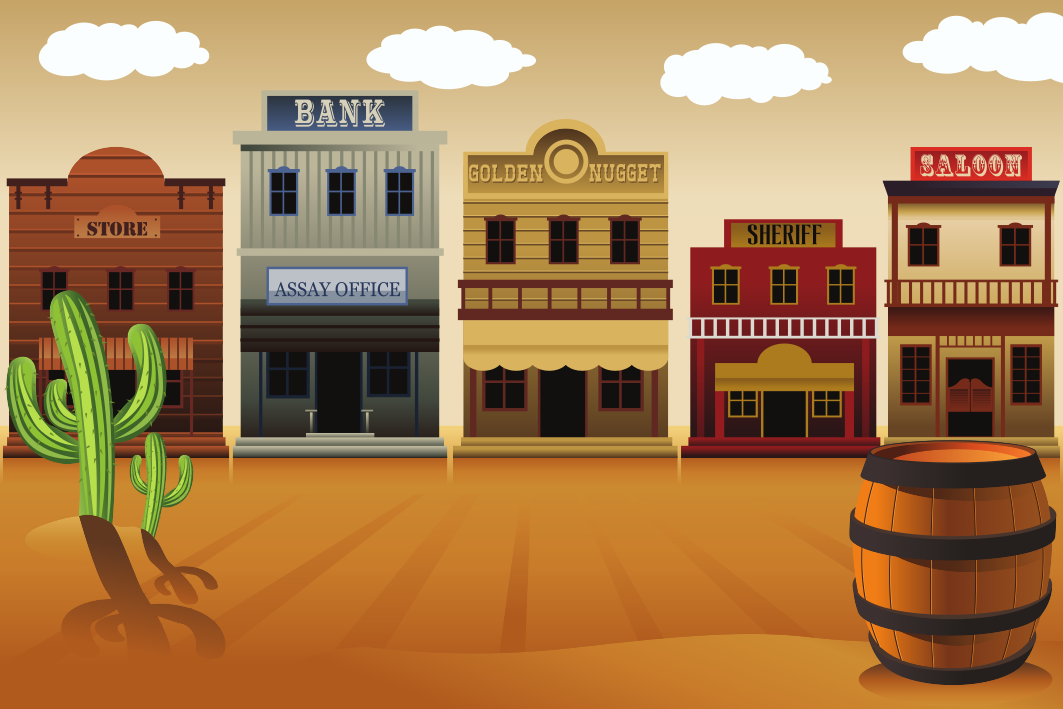
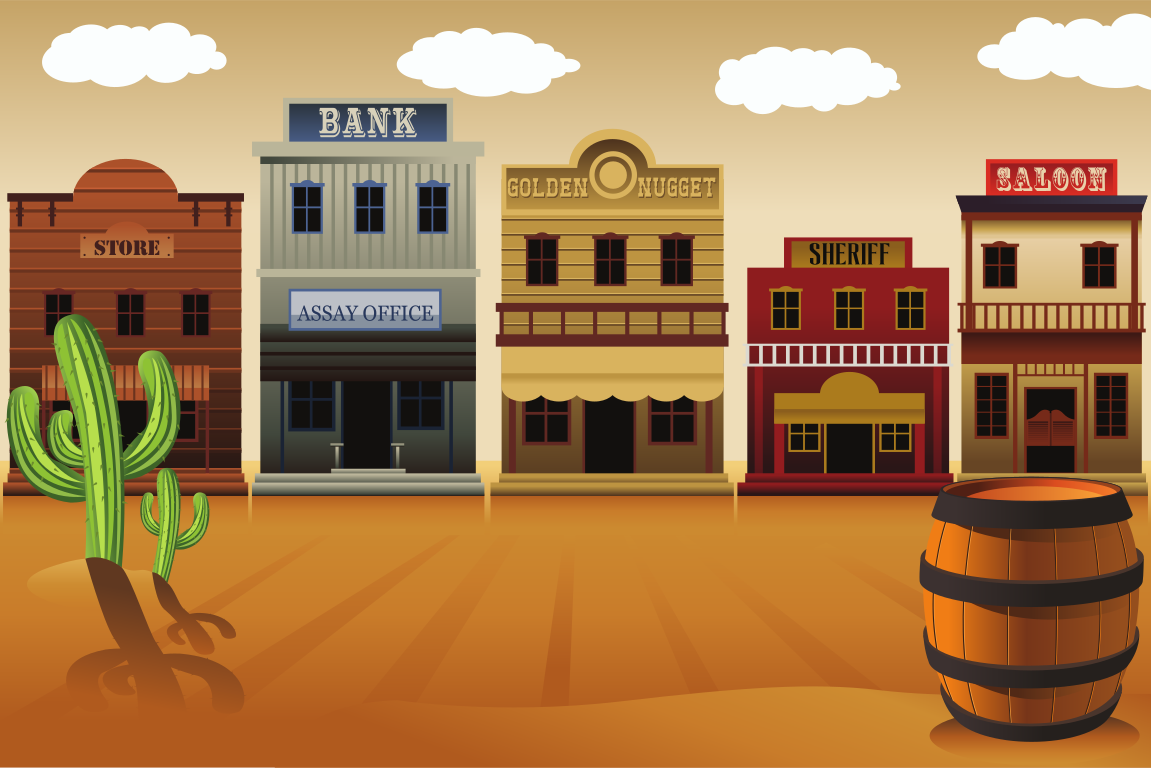
Updated playfield and README

diff --git a/index.html b/index.html
@@ -48,7 +48,7 @@
 <header><center><img src="/assets/openshiftlogo.png" alt="OpenShift" align="center"></center> </header>
 <div id="main">
     <article>
-        <div id="openshiftgame"></div>
+        <div id="openshiftgame"></div>v
 
     <script type="text/javascript">
 
@@ -82,15 +82,15 @@
                 "OpenShift, the Wild Wild West way"
             ];
             var locations = [
-                [306, 409],  // door 1
-                [550, 420],  // door 2
-                [790, 425],  // door 3
-                [633, 122],  // top of building 3
-                [945, 287],  // building 4 balcony
+                [341, 409],  // door 1
+                [585, 420],  // door 2
+                [7825, 425],  // door 3
+                [643, 122],  // top of building 3
+                [955, 287],  // building 4 balcony
                 [149, 149],  // building 1 left roof
                 [149, 140],  // building 1 right roof
-                [820, 634],  // Barrel
-                [10, 530]    // cactus
+                [860, 634],  // Barrel
+                [30, 530]    // cactus
             ];
 
             var openshiftObjects = [
@@ -111,7 +111,7 @@
                     gameID = results.score.gameID;
 
                     // Now that we have a gameID from the server, we can start the game
-                    game = new Phaser.Game(1024, 768, Phaser.AUTO, 'openshiftgame', { preload: preload, create: create, update: update, render: render });
+                    game = new Phaser.Game(1151, 768, Phaser.AUTO, 'openshiftgame', { preload: preload, create: create, update: update, render: render });
                 }
             });
 

diff --git a/README.md b/README.md
@@ -1,1 +1,21 @@
-the frontend
+OpenShift, the Wild Wild West Way is a game created with two components:
+
+* Node front end that uses the open source Phaser javascript game engine.
+* [SpringBoot backend](https://github.com/openshift-evangelists/Wild-West-Backend) that uses the Red Hat OpenShift java api to communicate with Kubernetes and OpenShift.
+
+**Goal** The goal of this simple game is illustrate what platforms objects are safe to delete that the system will automatically recover from.  Side goals of this game is to teach people how to use Phaser for game development as well as to teach people what can be achieved with automation on the Kubernetes and OpenShift platforms.
+
+For those not familar with OpenShift, it is an enterprise distribution of Kubernetes and is an open source project by the folks at Red Hat.
+
+
+**How to play**
+
+This game queries the backend service (SpringBoot) every couple of seconds to get a list of all the Platform objects you have in your project.  It then selects one at random and displays in on the screen.  The goal of the game is to shoot the objects that can be safetly destroyed that the platform can recover from.  Be careful though, if you shoot / destroy an object that can't be automatically recreated (route for example), your game will be over.
+
+All of this is happening for real on the server.  If you shoot a pod, the pod will actually be killed on your cluster.
+
+
+**Current Objects Supported**
+
+
+
